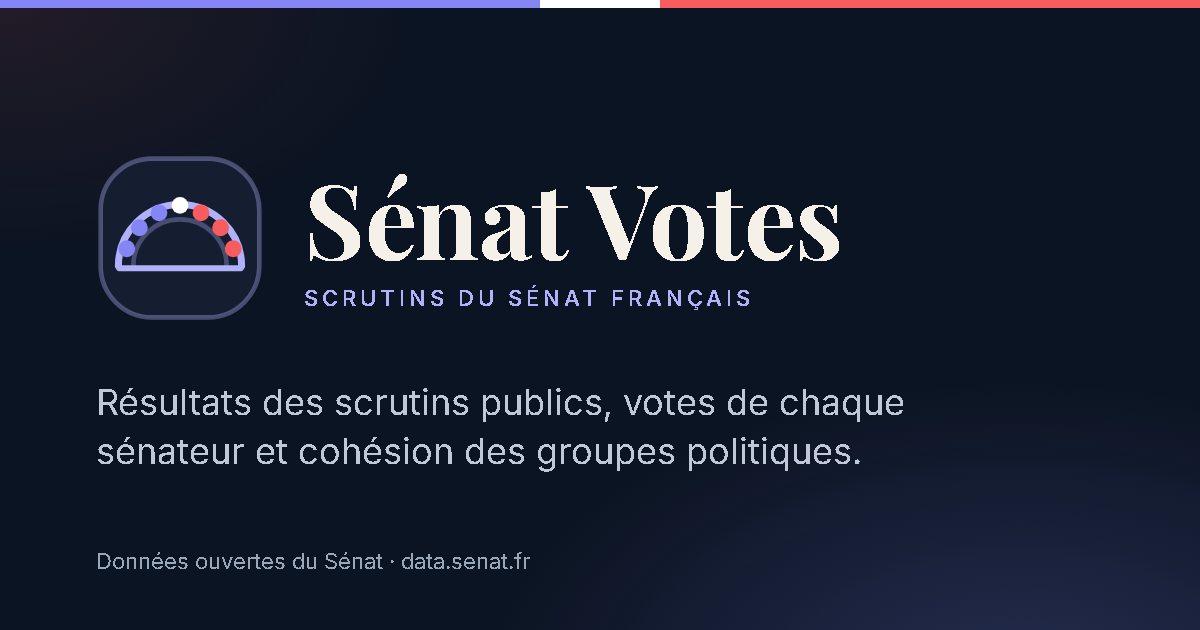
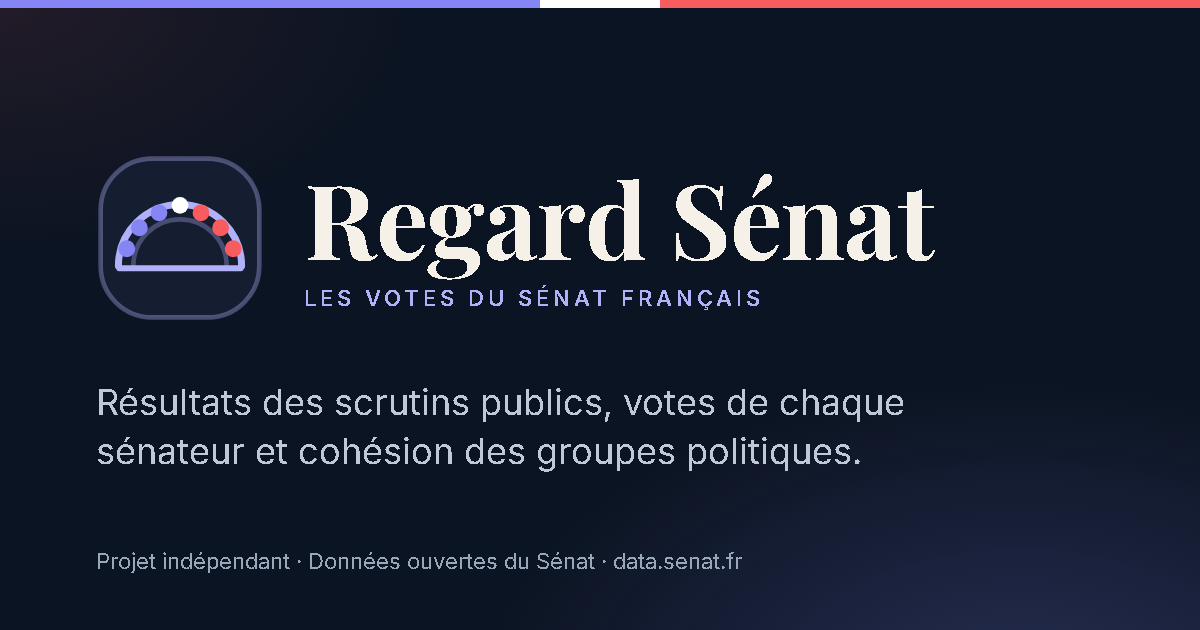
Rename the site to Regard Sénat
Title, metadata, header, footer, About page, share image, API name, docs
and helper script titles. The footer now states the project is independent
and not affiliated with the Sénat. Internal identifiers (migration file,
npm package name, service URLs) keep the old name.

Changed region(s): [[0.2467, 0.2714, 0.7708, 0.4825], [0.0925, 0.8746, 0.6167, 0.9048]]

diff --git a/frontend/src/AboutView.tsx b/frontend/src/AboutView.tsx
@@ -8,7 +8,7 @@ export default function AboutView() {
           <div className="about-hero-copy">
             <h1 id="about-title">Comprendre le Sénat, <em>vote après vote</em></h1>
             <p className="about-lead">
-              Sénat Votes rend les scrutins publics plus faciles à consulter. Le projet aide chacune et chacun à comprendre les décisions prises au Parlement et les positions exprimées par les sénateurs.
+              Regard Sénat rend les scrutins publics plus faciles à consulter. Le projet aide chacune et chacun à comprendre les décisions prises au Parlement et les positions exprimées par les sénateurs.
             </p>
             <div className="about-hero-actions">
               <a className="btn-primary" href="#scrutins">Explorer les scrutins <span aria-hidden="true">↗</span></a>
@@ -37,7 +37,7 @@ export default function AboutView() {
           </div>
           <div className="about-purpose-copy">
             <p>
-              Les lois et les amendements influencent la vie de toutes et tous. Pourtant, les débats parlementaires et les votes peuvent sembler lointains ou difficiles à suivre. Sénat Votes rassemble les résultats des scrutins, les votes individuels et les positions des groupes dans un même espace de consultation.
+              Les lois et les amendements influencent la vie de toutes et tous. Pourtant, les débats parlementaires et les votes peuvent sembler lointains ou difficiles à suivre. Regard Sénat rassemble les résultats des scrutins, les votes individuels et les positions des groupes dans un même espace de consultation.
             </p>
             <p>
               L’objectif est de donner à chacun des repères simples pour suivre le travail du Sénat, comparer les votes et se forger une opinion à partir des faits. Le site s’adresse aux citoyens, aux étudiants, aux journalistes et à toute personne curieuse de la vie publique.
@@ -107,7 +107,7 @@ export default function AboutView() {
           <div className="about-author-copy">
             <p className="about-section-kicker">À l’origine du projet</p>
             <h2 id="about-author-title">Développé par Mohamed Khalil Brik</h2>
-            <p>Sénat Votes est une initiative indépendante conçue pour rendre les données parlementaires plus accessibles et utiles à toutes et tous.</p>
+            <p>Regard Sénat est une initiative indépendante conçue pour rendre les données parlementaires plus accessibles et utiles à toutes et tous.</p>
           </div>
           <a className="about-author-link" href="https://khalilbriktn.github.io/personal-website/" target="_blank" rel="noopener noreferrer">
             Découvrir son site <span aria-hidden="true">↗</span>

diff --git a/frontend/index.html b/frontend/index.html
@@ -3,7 +3,7 @@
 <head>
   <meta charset="UTF-8" />
   <meta name="viewport" content="width=device-width, initial-scale=1.0" />
-  <title>Sénat Votes — Scrutins du Sénat Français</title>
+  <title>Regard Sénat — Les votes du Sénat français</title>
   <meta name="description" content="Les scrutins publics du Sénat français : résultats, votes de chaque sénateur, groupes politiques et textes adoptés, d’après les données ouvertes du Sénat (data.senat.fr) mises à jour régulièrement." />
   <link rel="canonical" href="https://french-senate-votes.mohamedkhalil-brik.workers.dev/" />
   <meta name="theme-color" content="#0b1422" />
@@ -11,18 +11,18 @@
   <link rel="apple-touch-icon" href="/apple-touch-icon.png" />
 
   <meta property="og:type" content="website" />
-  <meta property="og:site_name" content="Sénat Votes" />
+  <meta property="og:site_name" content="Regard Sénat" />
   <meta property="og:locale" content="fr_FR" />
   <meta property="og:url" content="https://french-senate-votes.mohamedkhalil-brik.workers.dev/" />
-  <meta property="og:title" content="Sénat Votes — Scrutins du Sénat Français" />
+  <meta property="og:title" content="Regard Sénat — Les votes du Sénat français" />
   <meta property="og:description" content="Résultats des scrutins publics, votes de chaque sénateur et cohésion des groupes politiques au Sénat, d’après les données ouvertes du Sénat." />
   <meta property="og:image" content="https://french-senate-votes.mohamedkhalil-brik.workers.dev/og-image.png" />
   <meta property="og:image:type" content="image/png" />
   <meta property="og:image:width" content="1200" />
   <meta property="og:image:height" content="630" />
-  <meta property="og:image:alt" content="Sénat Votes : scrutins du Sénat français" />
+  <meta property="og:image:alt" content="Regard Sénat : les votes du Sénat français" />
   <meta name="twitter:card" content="summary_large_image" />
-  <meta name="twitter:title" content="Sénat Votes — Scrutins du Sénat Français" />
+  <meta name="twitter:title" content="Regard Sénat — Les votes du Sénat français" />
   <meta name="twitter:description" content="Résultats des scrutins publics, votes de chaque sénateur et cohésion des groupes politiques au Sénat." />
   <meta name="twitter:image" content="https://french-senate-votes.mohamedkhalil-brik.workers.dev/og-image.png" />
 </head>

diff --git a/frontend/src/App.tsx b/frontend/src/App.tsx
@@ -279,7 +279,7 @@ function App() {
               </svg>
             </div>
             <div className="logo-text">
-              <span className="logo-title">Sénat Votes</span>
+              <span className="logo-title">Regard Sénat</span>
               <span className="logo-sub">Scrutins du Sénat Français</span>
             </div>
           </a>
@@ -446,7 +446,7 @@ function App() {
       ) : view === 'about' ? null : (
         <main className="main-content view-panel react-shell-main">
           <div className="container react-shell-content">
-            <p className="section-eyebrow">Sénat Votes · Application React</p>
+            <p className="section-eyebrow">Regard Sénat</p>
             <h1 className="react-shell-title">{currentView.label}</h1>
 
             {loadState.kind === 'loading' && (
@@ -495,7 +495,7 @@ function App() {
       <footer className="site-footer">
         <div className="container footer-inner">
           <div className="footer-left">
-            <div className="logo-text"><span className="logo-title">Sénat Votes</span></div>
+            <div className="logo-text"><span className="logo-title">Regard Sénat</span></div>
             <p className="footer-desc">Données issues du portail officiel <a href="https://www.senat.fr" target="_blank" rel="noopener noreferrer">senat.fr</a> — Licence Ouverte Etalab v2.0</p>
             <nav className="footer-links footer-source-links" aria-label="Sources des données">
               <a href="https://www.senat.fr/scrutin-public/scr2026.html" target="_blank" rel="noopener noreferrer">Source officielle des scrutins</a>
@@ -535,7 +535,7 @@ function App() {
             </div>
           </section>
         </div>
-        <div className="footer-bottom"><div className="container"><p>Sénat Votes · Transparence et suivi de l’activité parlementaire</p></div></div>
+        <div className="footer-bottom"><div className="container"><p>Regard Sénat · Projet indépendant, non affilié au Sénat · Transparence et suivi de l’activité parlementaire</p></div></div>
       </footer>
 
       {/* Keyed boundaries: opening another scrutin/senator remounts the dialog and clears a caught error. */}

diff --git a/frontend/src/design-tokens.css b/frontend/src/design-tokens.css
@@ -1,5 +1,5 @@
 /*
- * Sénat Votes React design tokens.
+ * Regard Sénat React design tokens.
  * The spacing scale follows a 4px rhythm; semantic colors give the React app
  * its French republican navy, Bleu France, ivory, and Marianne-red identity.
  */

diff --git a/backend/app/main.py b/backend/app/main.py
@@ -42,10 +42,10 @@ async def lifespan(app):
 
 
 app = FastAPI(
-    title="Sénat Votes API",
+    title="Regard Sénat API",
     version="1.0.0",
     description=(
-        "Read-only API over the Sénat Votes database. Data: Sénat (data.senat.fr), "
+        "Read-only API over the Regard Sénat database. Data: Sénat (data.senat.fr), "
         "Licence Ouverte 2.0. See /api/v1/sources for files, checksums and coverage notes."
     ),
     lifespan=lifespan,

diff --git a/backend/app/routers/legacy.py b/backend/app/routers/legacy.py
@@ -38,7 +38,7 @@ def iso(value):
 @router.get("/status")
 def status():
     online = database_is_reachable()
-    return {"status": "online", "backend": "Sénat Votes API (FastAPI + Supabase)",
+    return {"status": "online", "backend": "Regard Sénat API (FastAPI + Supabase)",
             "database": "ok" if online else "unavailable", "hasData": online}
 
 

diff --git a/backend/app/__init__.py b/backend/app/__init__.py
@@ -1,1 +1,1 @@
-"""Sénat Votes API: read-only access to the Supabase database."""
+"""Regard Sénat API: read-only access to the Supabase database."""

diff --git a/DEPLOYMENT.md b/DEPLOYMENT.md
@@ -1,6 +1,6 @@
 # Deployment
 
-Where each part of Sénat Votes lives in production, and how to rebuild or update it.
+Where each part of Regard Sénat lives in production, and how to rebuild or update it.
 
 | Part | Host | Source in this repo | URL |
 |---|---|---|---|

diff --git a/README.md b/README.md
@@ -1,4 +1,4 @@
-# Sénat Votes
+# Regard Sénat
 
 A website for exploring public votes (*scrutins publics*) in the French Senate: what was
 voted, how each senator voted, and how the political groups are composed.

diff --git a/backend/README.md b/backend/README.md
@@ -1,4 +1,4 @@
-# Sénat Votes API
+# Regard Sénat API
 
 A read-only FastAPI service over the Supabase database described by
 `supabase/migrations/`. It never writes: every pooled session runs
